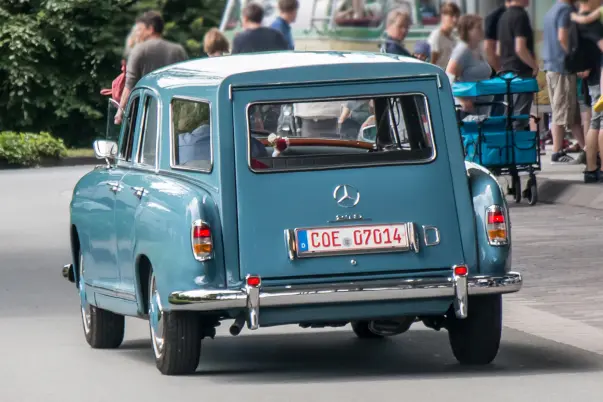
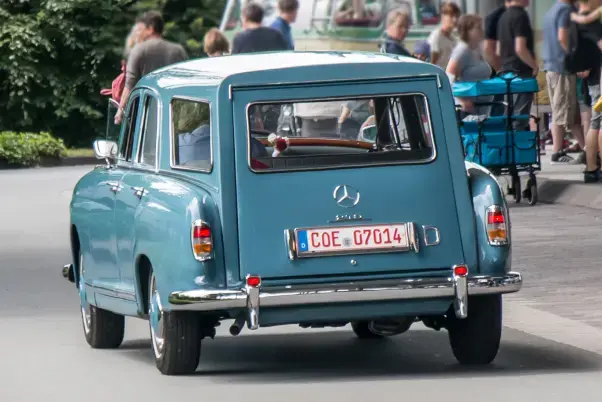
246

diff --git a/pic/ja_mb_img_e.html b/pic/ja_mb_img_e.html
@@ -428,8 +428,8 @@
 						<a href="full/e/w105_cat2.jpg"><img loading="lazy" src="style/e/w105_cat2.webp" alt="メルセデス,W105,Ponton,Typ219,カタログ" width="569" height="250"></a>
 						<a href="full/e/w105_cat3.jpg"><img loading="lazy" src="style/e/w105_cat3.webp" alt="メルセデス,W105,Ponton,Typ219,カタログ" width="636" height="250"></a>
 						<h5>Estate</h5>
-						<a href="full/e/s105_f.jpg"><img loading="lazy" src="style/e/s105_f.webp" alt="メルセデス,W105,Ponton,Typ219,エステート,フロント" width="603" height="402"></a>
-						<a href="full/e/s105_r.jpg"><img loading="lazy" src="style/e/s105_r.webp" alt="メルセデス,W105,Ponton,Typ219,エステート,リア" width="603" height="402"></a>
+						<a href="full/e/s105_f.jpg"><img loading="lazy" src="style/e/s105_f.webp" alt="メルセデス,W105,Ponton,Typ219,エステート,フロント" width="602" height="402"></a>
+						<a href="full/e/s105_r.jpg"><img loading="lazy" src="style/e/s105_r.webp" alt="メルセデス,W105,Ponton,Typ219,エステート,リア" width="602" height="402"></a>
 					</section>
 				</div>
 		</section>

diff --git a/pic/mb_img_e.html b/pic/mb_img_e.html
@@ -428,8 +428,8 @@
 						<a href="full/e/w105_cat2.jpg"><img loading="lazy" src="style/e/w105_cat2.webp" alt="Mercedes,W105,Ponton,Typ219,Katalog" width="569" height="250"></a>
 						<a href="full/e/w105_cat3.jpg"><img loading="lazy" src="style/e/w105_cat3.webp" alt="Mercedes,W105,Ponton,Typ219,Katalog" width="636" height="250"></a>
 						<h5>Estate</h5>
-						<a href="full/e/s105_f.jpg"><img loading="lazy" src="style/e/s105_f.webp" alt="Mercedes,W105,Ponton,Typ219,Kombi,Front view" width="603" height="402"></a>
-						<a href="full/e/s105_r.jpg"><img loading="lazy" src="style/e/s105_r.webp" alt="Mercedes,W105,Ponton,Typ219,Kombi,Rückansicht" width="603" height="402"></a>
+						<a href="full/e/s105_f.jpg"><img loading="lazy" src="style/e/s105_f.webp" alt="Mercedes,W105,Ponton,Typ219,Kombi,Front view" width="602" height="402"></a>
+						<a href="full/e/s105_r.jpg"><img loading="lazy" src="style/e/s105_r.webp" alt="Mercedes,W105,Ponton,Typ219,Kombi,Rückansicht" width="602" height="402"></a>
 					</section>
 				</div>
 		</section>

diff --git a/pic/en_mb_img_e.html b/pic/en_mb_img_e.html
@@ -428,8 +428,8 @@
 						<a href="full/e/w105_cat2.jpg"><img loading="lazy" src="style/e/w105_cat2.webp" alt="Mercedes,W105,Ponton,Typ219,Catalog" width="569" height="250"></a>
 						<a href="full/e/w105_cat3.jpg"><img loading="lazy" src="style/e/w105_cat3.webp" alt="Mercedes,W105,Ponton,Typ219,Catalog" width="636" height="250"></a>
 						<h5>Estate</h5>
-						<a href="full/e/s105_f.jpg"><img loading="lazy" src="style/e/s105_f.webp" alt="Mercedes,W105,Ponton,Typ219,Estate,Front view" width="603" height="402"></a>
-						<a href="full/e/s105_r.jpg"><img loading="lazy" src="style/e/s105_r.webp" alt="Mercedes,W105,Ponton,Typ219,Estate,Rear view" width="603" height="402"></a>
+						<a href="full/e/s105_f.jpg"><img loading="lazy" src="style/e/s105_f.webp" alt="Mercedes,W105,Ponton,Typ219,Estate,Front view" width="602" height="402"></a>
+						<a href="full/e/s105_r.jpg"><img loading="lazy" src="style/e/s105_r.webp" alt="Mercedes,W105,Ponton,Typ219,Estate,Rear view" width="602" height="402"></a>
 					</section>
 				</div>
 		</section>
